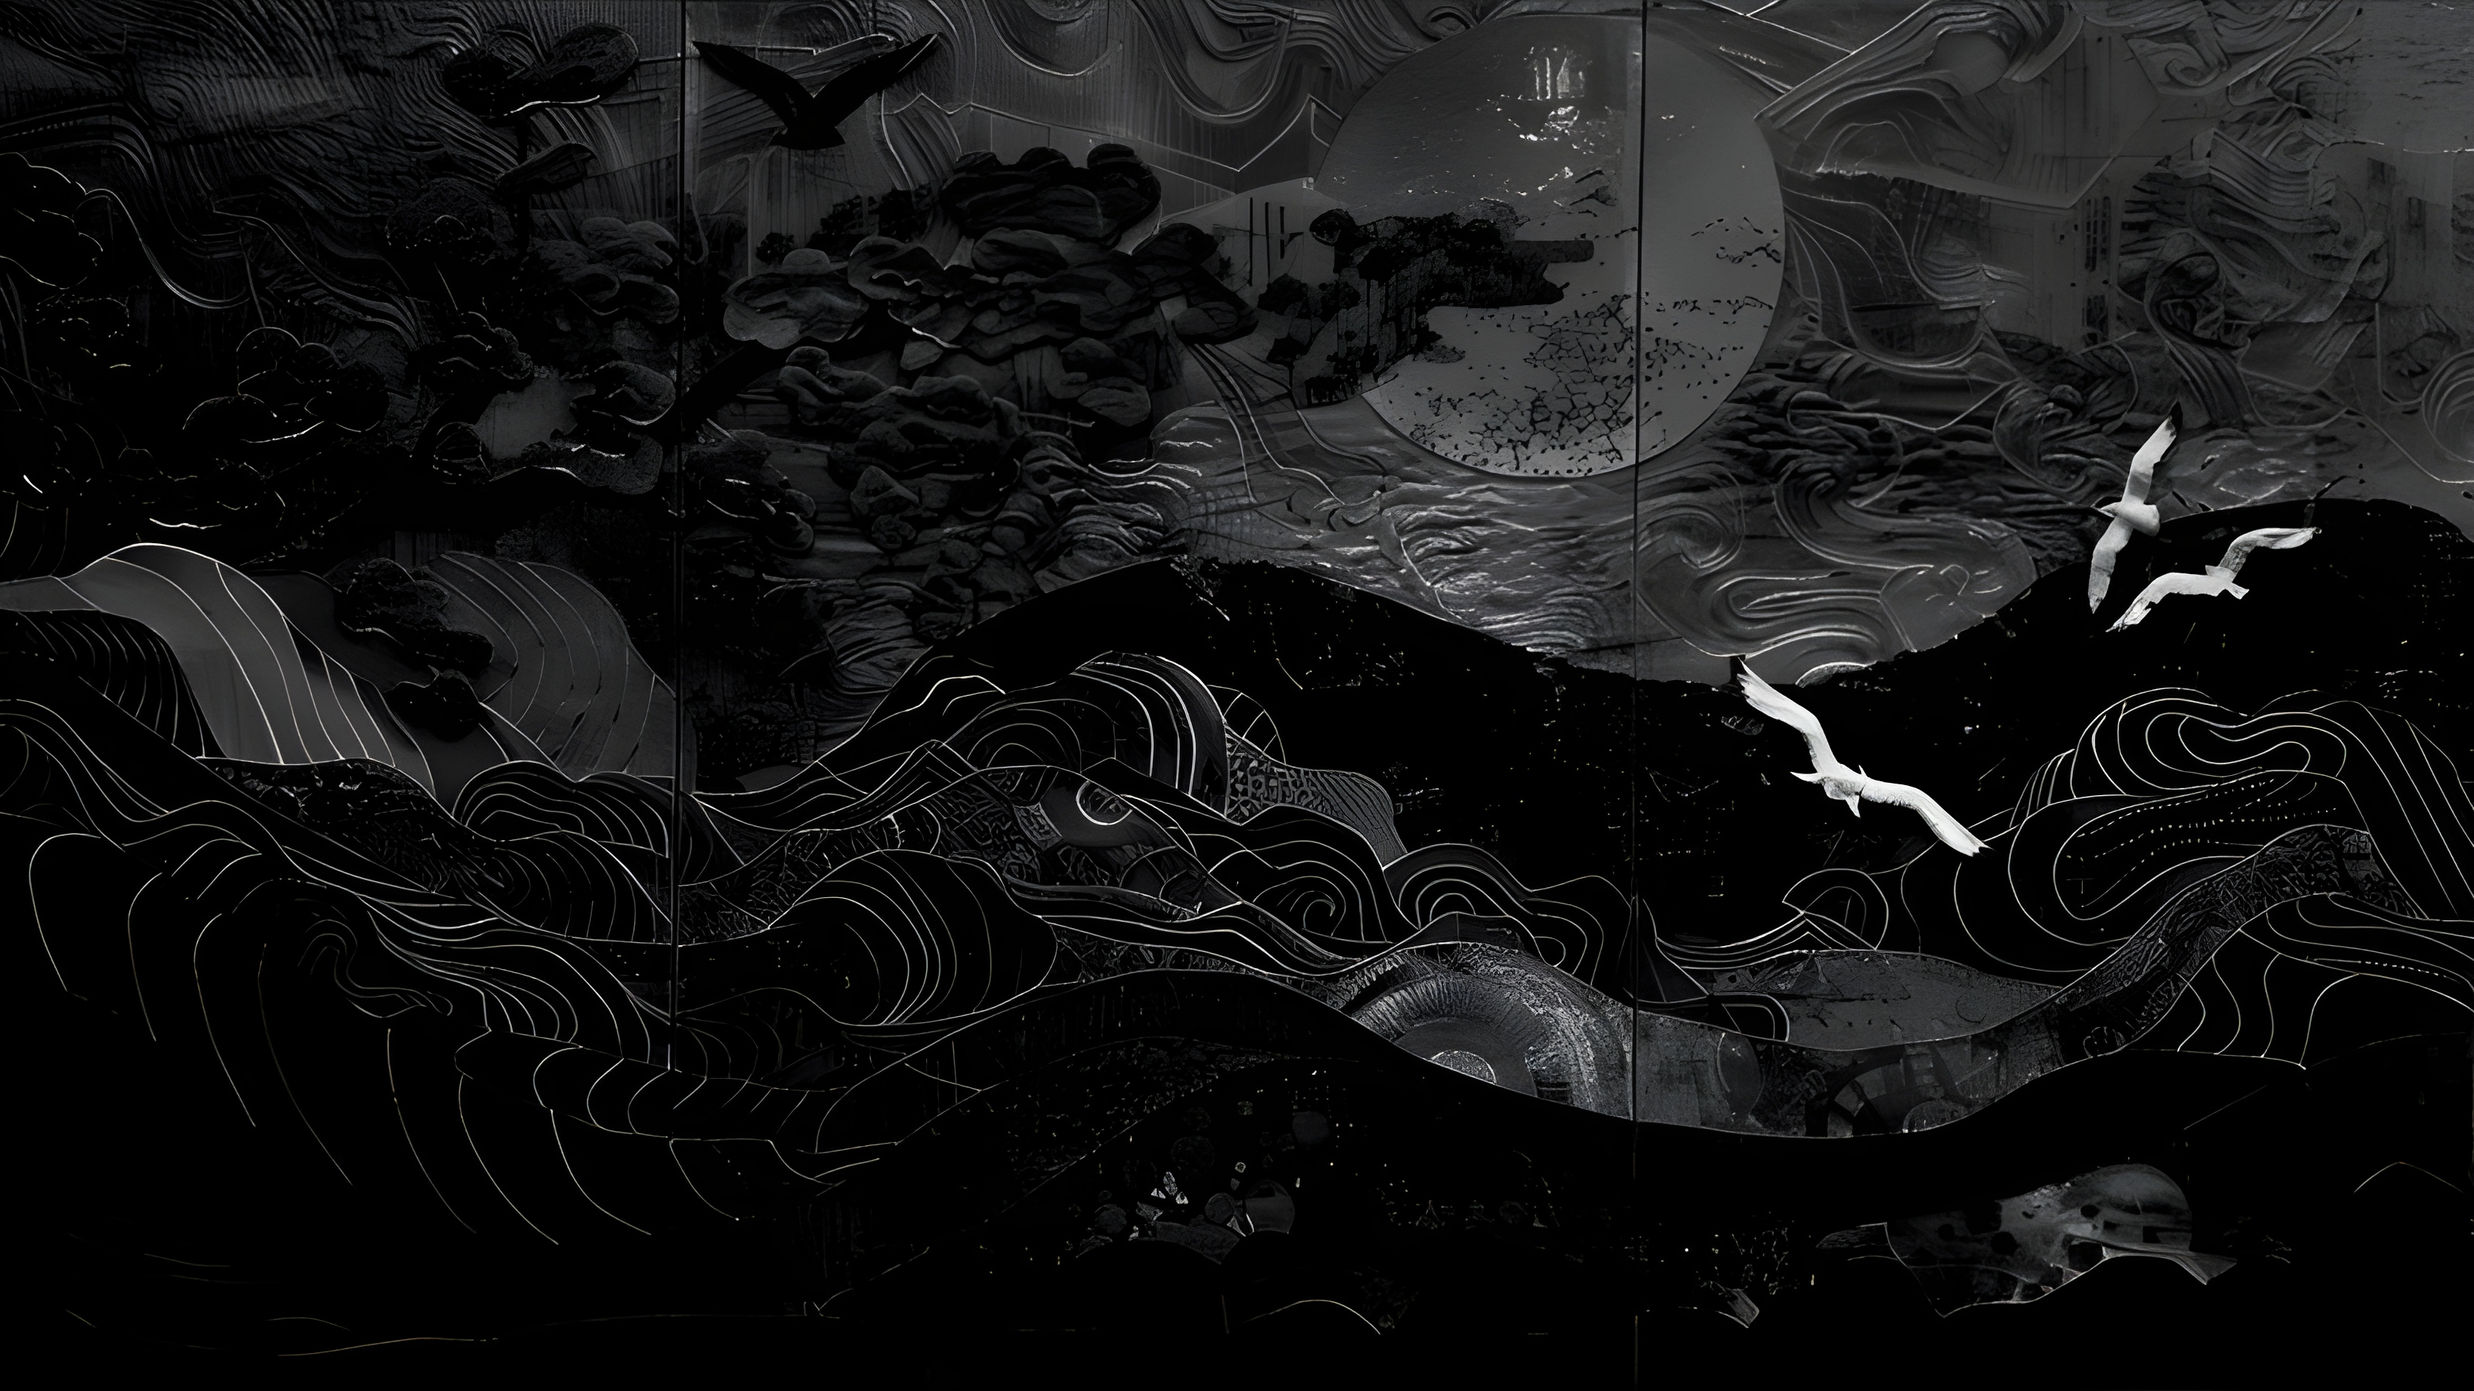
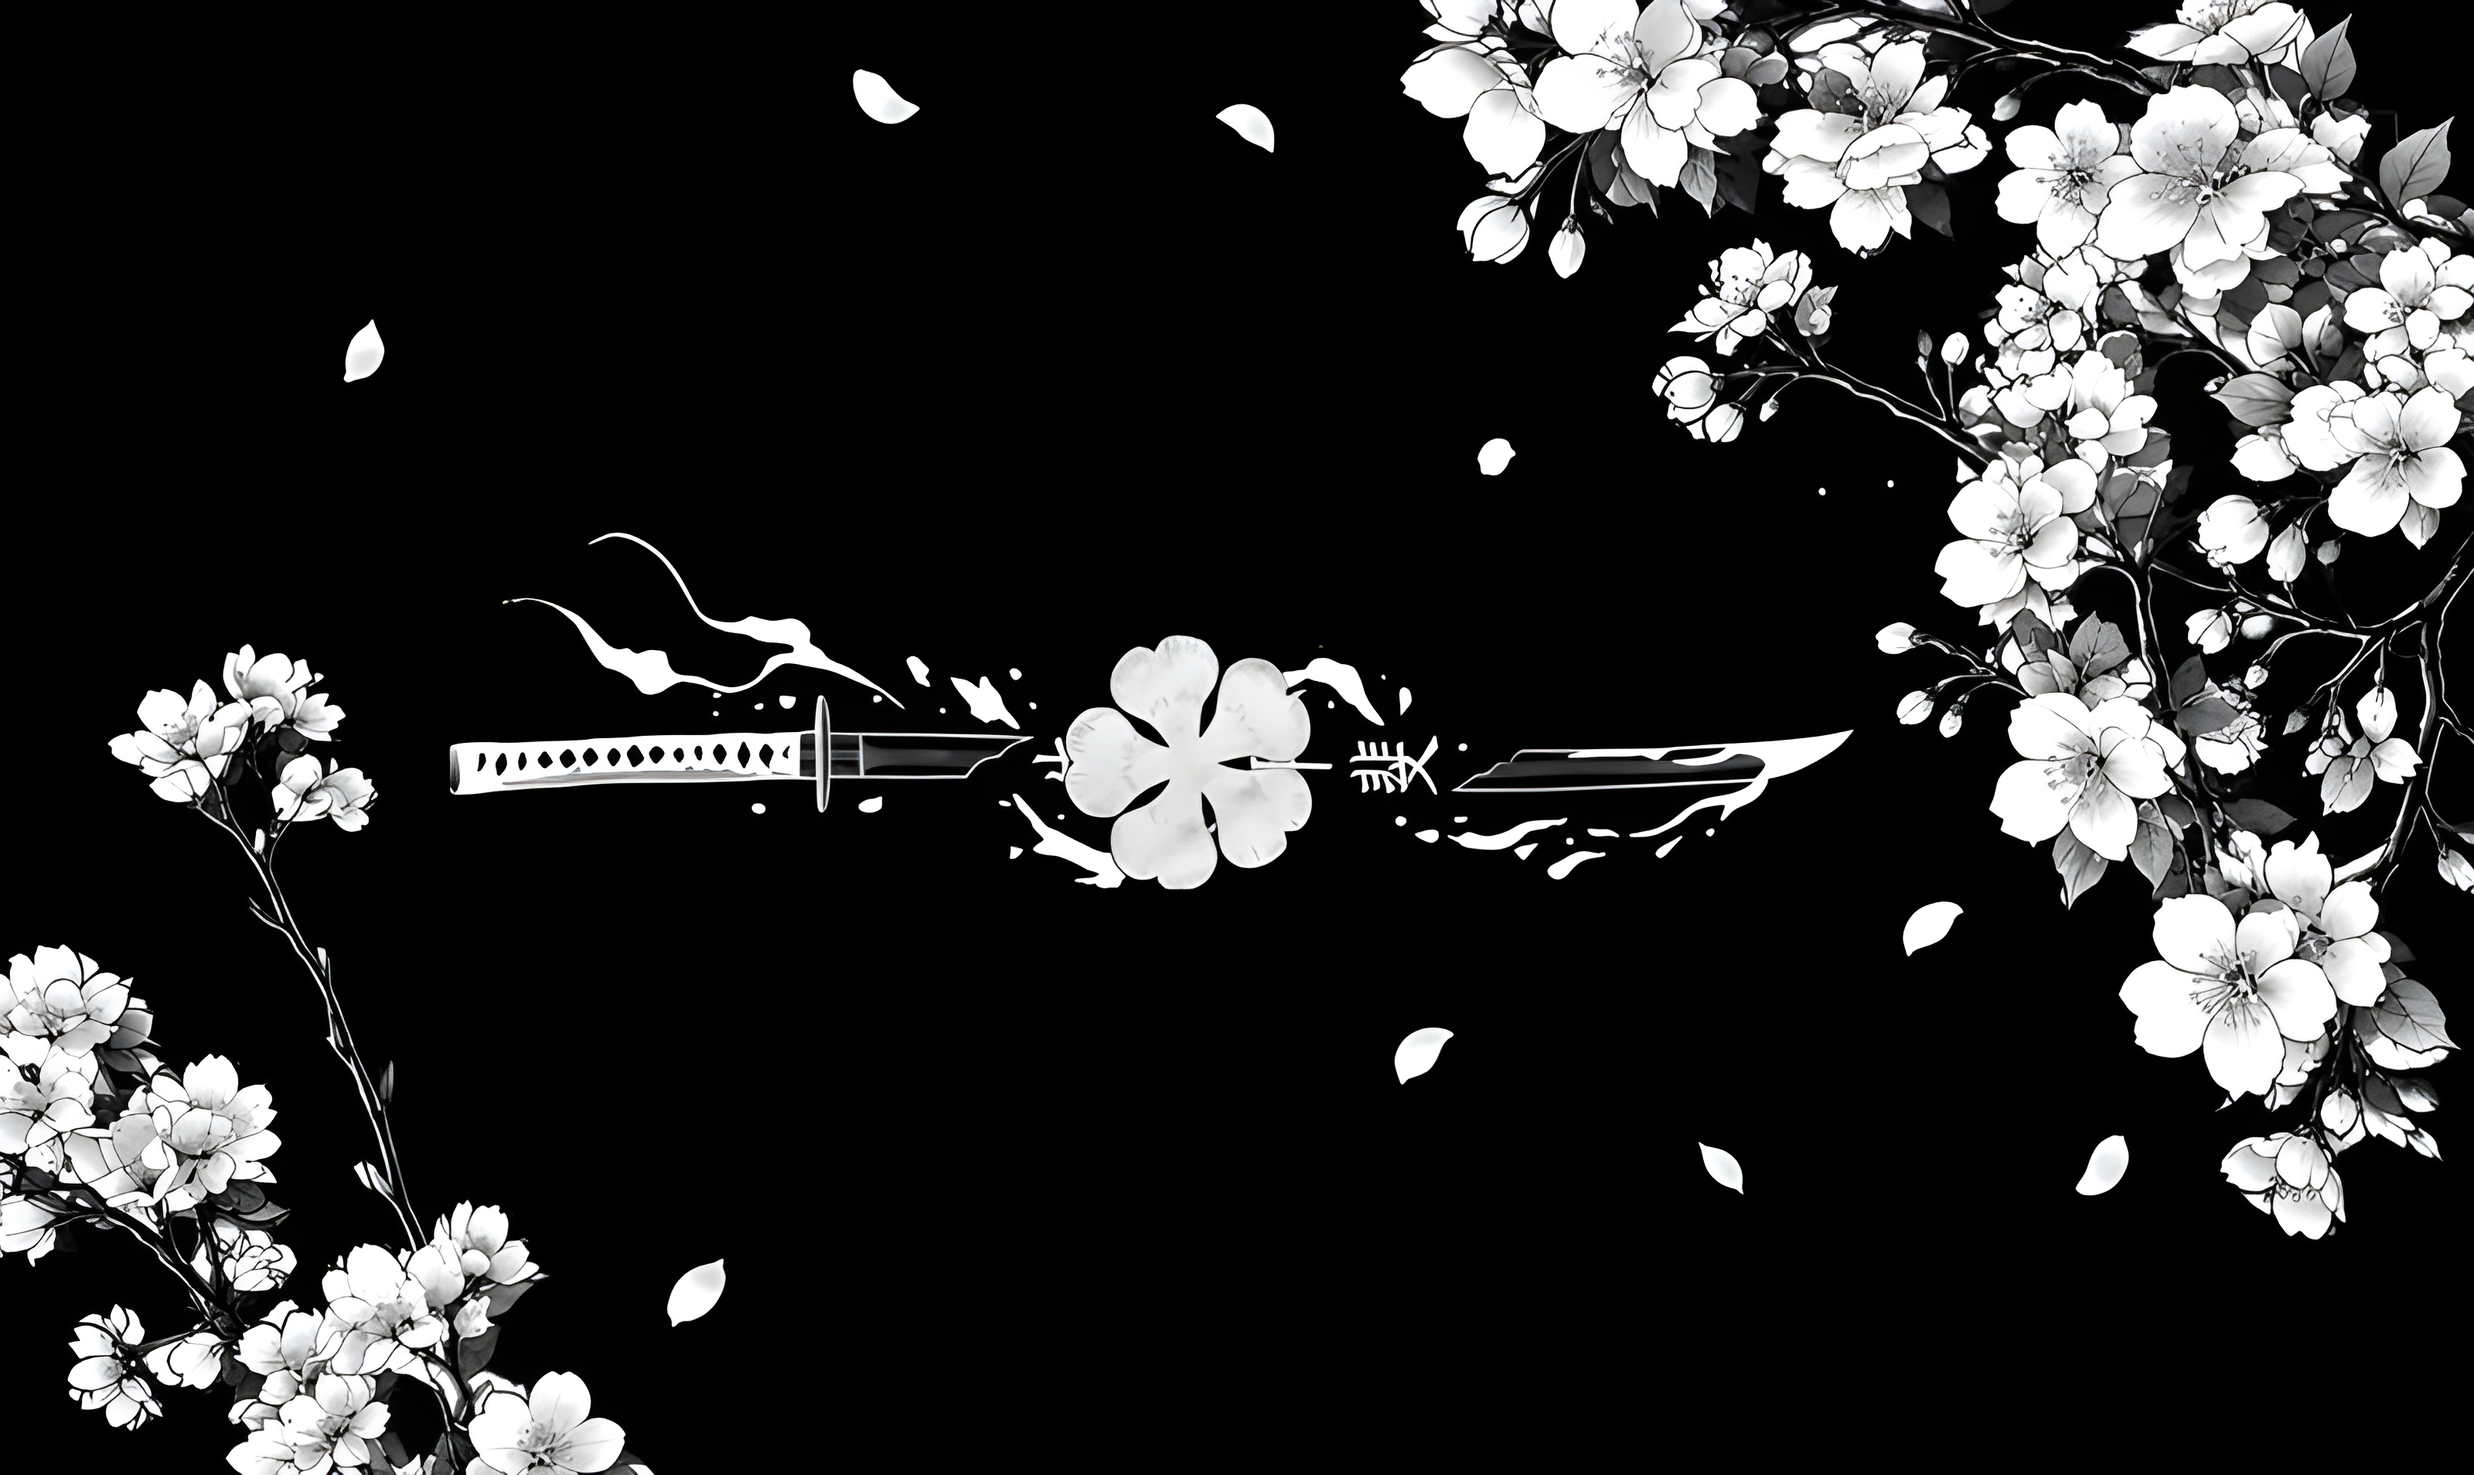
Обновление заднего фона, Небольшая настройка прозрачности и цвета фона у блоков, Настройка дизайна для страницы Тест, макет для теста, реализация функции обертывания посимвольно в <span> что бы присваивать цвет буквам, перехват нажатой клавиши и сравнение нажатой клавиши

diff --git a/HTML/test.html b/HTML/test.html
@@ -9,6 +9,7 @@
   <link rel="preconnect" href="https://fonts.gstatic.com" crossorigin>
   <link href="https://fonts.googleapis.com/css2?family=Geologica:wght@100..900&display=swap" rel="stylesheet">
   <link href="https://fonts.googleapis.com/css2?family=Firjar:wght@100..800&family=Geologica:wght,CRSV@100..900,0&display=swap" rel="stylesheet">
+  <link href="https://fonts.googleapis.com/css2?family=JetBrains+Mono:wght@400;500&display=swap" rel="stylesheet">
 
   <link rel="stylesheet" href="../CSS/common.css">
   <link rel="stylesheet" href="../CSS/test.css">
@@ -27,7 +28,70 @@
       </a>
     </nav>
   </header>
-  <main class="content">
+  <main class="tt">
+    <div class="tt-text">
+      <div class="tt-inner" id="text">
+      </div>
+    </div>
+
+    <div class="tt-bar">
+      <button class="tt-btn tt-restart" id="restart">↻</button>
+      <div class="tt-group">
+        <button class="tt-btn is-on">слова</button>
+        <button class="tt-btn">цитаты</button>
+      </div>
+      <div class="tt-group">
+        <button class="tt-btn">10</button>
+        <button class="tt-btn is-on">25</button>
+        <button class="tt-btn">50</button>
+        <button class="tt-btn">100</button>
+      </div>
+    </div>
+
+    <div class="tt-kb">
+      <div class="kb-row">
+        <span class="key" data-k="й">й</span>
+        <span class="key" data-k="ц">ц</span>
+        <span class="key" data-k="у">у</span>
+        <span class="key" data-k="к">к</span>
+        <span class="key" data-k="е">е</span>
+        <span class="key" data-k="н">н</span>
+        <span class="key" data-k="г">г</span>
+        <span class="key" data-k="ш">ш</span>
+        <span class="key" data-k="щ">щ</span>
+        <span class="key" data-k="з">з</span>
+        <span class="key" data-k="х">х</span>
+        <span class="key" data-k="ъ">ъ</span>
+        </div>
+        <div class="kb-row">
+        <span class="key" data-k="ф">ф</span>
+        <span class="key" data-k="ы">ы</span>
+        <span class="key" data-k="в">в</span>
+        <span class="key" data-k="а">а</span>
+        <span class="key" data-k="п">п</span>
+        <span class="key" data-k="р">р</span>
+        <span class="key" data-k="о">о</span>
+        <span class="key" data-k="л">л</span>
+        <span class="key" data-k="д">д</span>
+        <span class="key" data-k="ж">ж</span>
+        <span class="key" data-k="э">э</span>
+        </div>
+        <div class="kb-row">
+        <span class="key" data-k="я">я</span>
+        <span class="key" data-k="ч">ч</span>
+        <span class="key" data-k="с">с</span>
+        <span class="key" data-k="м">м</span>
+        <span class="key" data-k="и">и</span>
+        <span class="key" data-k="т">т</span>
+        <span class="key" data-k="ь">ь</span>
+        <span class="key" data-k="б">б</span>
+        <span class="key" data-k="ю">ю</span>
+        <span class="key" data-k=".">.</span>
+      </div>
+      <div class="kb-row">
+      <span class="key" data-k=" "> </span>
+      </div>
+    </div>
 
   </main>
 
@@ -66,5 +130,6 @@
     <p class="footer__note">ООО "Ляляляwinnexкрут" · СПБ, Обычный район, пр. Тест Печати. · w1nnexxxx@gmail.com</p>
 
   </footer>
+  <script src="../JS/test.js"></script>
 </body>
 </html>

diff --git a/CSS/test.css b/CSS/test.css
@@ -1,0 +1,91 @@
+.tt {
+  display: flex;
+  flex-direction: column;
+  align-items: center;
+  width: 90%;
+  max-width: 900px;
+  margin: 70px auto 40px;
+}
+
+.tt-text {
+  width: 100%;
+  height: 132px;
+  overflow: hidden;
+}
+
+.tt-inner {
+  text-align: left;
+  position: relative;
+  font: 500 28px/44px "JetBrains Mono", monospace;
+  color: #6b6f7b;
+  white-space: pre-wrap;
+}
+
+.ch.ok  { color: #ffffff; }
+.ch.bad { color: #e05252; background: rgba(224, 82, 82, 0.18); border-radius: 3px; }
+
+.tt-bar {
+  display: flex;
+  flex-wrap: wrap;
+  justify-content: center;
+  gap: 10px;
+  margin-top: 24px;
+}
+
+.tt-group {
+  display: flex;
+  gap: 2px;
+  padding: 3px;
+  border-radius: 8px;
+  background: rgba(56, 56, 56, 0.534);
+  backdrop-filter: blur(6px);
+}
+
+.tt-btn {
+  padding: 8px 14px;
+  border: none;
+  border-radius: 6px;
+  background: transparent;
+  color: #8d8d8d;
+  font: 500 14px "JetBrains Mono", monospace;
+  cursor: pointer;
+  transition: color 0.2s;
+}
+
+.tt-restart {
+  display: grid;
+  place-items: center;
+  width: 44px;
+  height: 44px;
+  padding: 0;
+  font-size: 24px;
+  line-height: 1;
+}
+
+.tt-btn:hover { color: #fff; }
+.tt-btn.is-on { color: #f3f3f3; }
+
+.tt-kb {
+  display: flex;
+  flex-direction: column;
+  align-items: center;
+  gap: 6px;
+  margin-top: 56px;
+}
+
+.kb-row { display: flex; gap: 6px; }
+
+.key {
+  display: grid;
+  place-items: center;
+  width: 46px;
+  height: 46px;
+  border: 1px solid rgba(255, 255, 255, 0.3);
+  border-radius: 6px;
+  color: #b7b9c2;
+  font: 400 13px "JetBrains Mono", monospace;
+  text-transform: uppercase;
+}
+
+.key.space { width: 290px; }
+.key.next  { background: rgba(255, 255, 255, 0.75); color: #13141d; }

diff --git a/JS/test.js b/JS/test.js
@@ -1,0 +1,36 @@
+const text = "кириешки кириешки вкусные. Как так ток";
+const box = document.getElementById("text");
+const chars = [];
+//выводд текста побуквенно оберктой <span> что бы можно было присвоить цвет взависимости от правильности нажатия клавиши
+for (const letter of text) {
+    const span = document.createElement("span");
+    span.className = "ch";
+    span.textContent = letter;
+    box.append(span);
+    chars.push(span);
+}
+
+// Перехват нажатой клавиши и = нажатой клавиши
+
+let i = 0;
+
+document.addEventListener("keydown", (e) => {
+    if (e.key === "Backspace" && i > 0) {
+        if(i > 0) {
+            i--;
+            chars[i].classList.remove("ok", "bad");
+    }
+    return;
+}
+    if (e.key.length !== 1) return;
+    if (e.key === text[i]) {
+        chars[i].classList.add("ok");
+    } else {
+        chars[i].classList.add("bad");
+    }
+    i++;
+});
+
+
+
+

diff --git a/CSS/common.css b/CSS/common.css
@@ -25,7 +25,7 @@ body::before {
   background-position: center;
   background-repeat: no-repeat;
 
-  filter: blur(4px) brightness(0.5);
+  filter: blur(5px) brightness(0.3);
 }
 
 body {
@@ -110,7 +110,7 @@ body {
 .nav-button--active {
   color: #fff;
   font-weight: 300;
-  background-color: rgba(56, 56, 56, 0.534);   /* тёмная подложка, темнее хедера */
+  background-color: rgba(56, 56, 56, 0.534);
 }
 
 .footer {
@@ -121,10 +121,9 @@ body {
   margin: auto 20px 20px;
   padding: 20px 32px;
 
-  background-color: rgba(19, 20, 29, 0.45);
-  -webkit-backdrop-filter: blur(16px);
-  backdrop-filter: blur(16px);
-  border-radius: 12px;
+  -webkit-backdrop-filter: blur(8px);
+  backdrop-filter: blur(4px);
+  border-radius: 16px;
 }
 
 .footer__icon {

diff --git a/CSS/home.css b/CSS/home.css
@@ -10,8 +10,7 @@
 
 .block {
   padding: 24px 32px;
-  background-color: rgba(19, 20, 29, 0.288);
-  backdrop-filter: blur(12px);
+  backdrop-filter: blur(8px);
   border-radius: 12px;
 }
 
